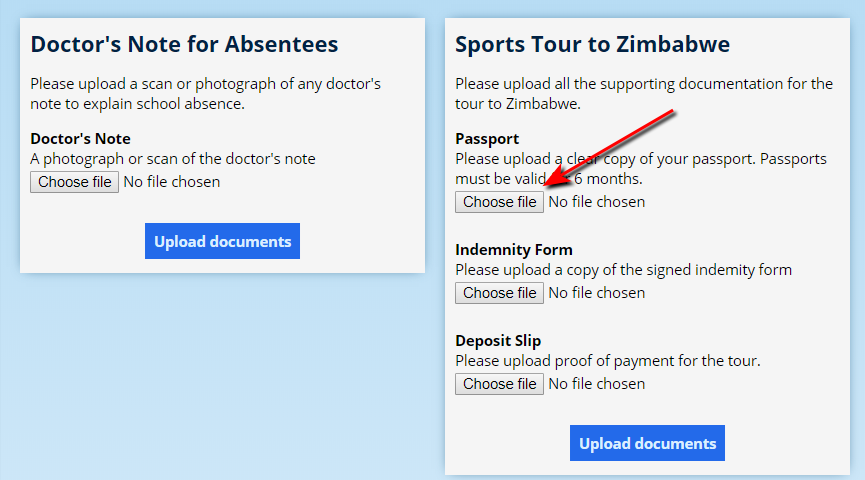
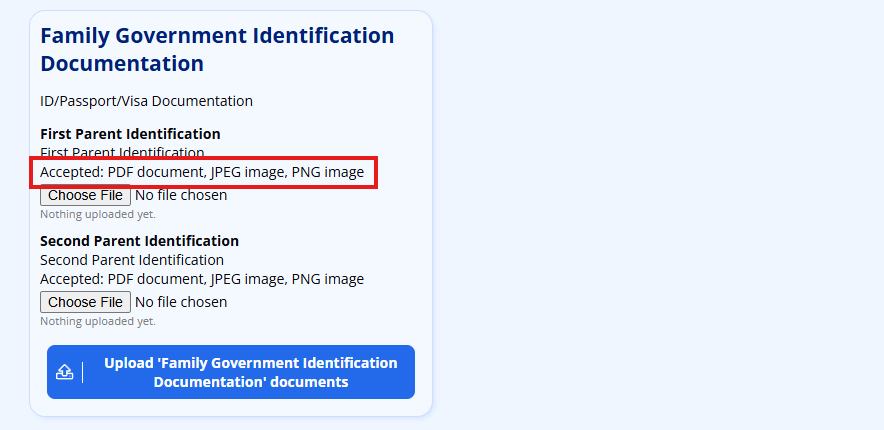
CHANGED: Document upload file-type allow-list and bulk upload results

diff --git a/docs/document-repository.md b/docs/document-repository.md
@@ -93,6 +93,8 @@ The “Max Size” column specifies how large the file may be in megabytes. The 
 
 The **Required** column lets you mark a document as required rather than optional. This only has an effect for uploads whose audience is set to **Applicant**: when those documents are [collected during the online application](online-applications.md#collecting-supporting-documents-during-the-application), a parent who has not supplied a required document is warned before submitting, although they are still allowed to submit. Required documents do not force or block an upload anywhere else.
 
+The **Accepted Types** column controls which kinds of file a parent or applicant may upload into that slot. Tick one or more of the file types on offer — **PDF document**, **JPEG image**, **PNG image**, **GIF image**, **Word document**, **Excel spreadsheet**, **CSV file** and **Plain text**. A parent is only able to upload a file whose type you have ticked here, and the accepted types are shown to them alongside the slot (see [Instructions for Parents](#instructions-for-parents) below). Each slot must have at least one type ticked. If you leave a slot with nothing ticked, ADAM will refuse to save the whole upload and ask you to choose at least one accepted file type for that slot.
+
 Once you are done, click on the **Save File Upload** button.
 
 Look carefully at the example above. Within the one file upload section, we are asking for three documents. This allows parents to see the different upload sections and easily differentiate between them. These details, with some others already existing on the system, may look like this on the parent portal:
@@ -109,7 +111,11 @@ ADAM will list the documents that can be uploaded:
 
 ![](assets/screenshots/document-repository/document-repository-09.png)
 
+Beneath each document, ADAM shows the file types that may be uploaded into that slot — for example *Accepted: PDF document, JPEG image*. These are the accepted types you ticked when [creating the upload space](#creating-upload-spaces). Where a slot has not had any file types configured, ADAM shows *Accepted: no file types configured* instead, and nothing can be uploaded until you tick at least one type.
+
 Parents should click on the **Choose file** button and select the file they wish to upload. They may choose one or more files. Once they have selected all the files they wish to upload, they should click on the **Upload documents** button below the files they have chosen.
+
+If a parent chooses a file whose type is not accepted for that slot, ADAM rejects it and shows a message naming the accepted types — for example *That file type is not accepted. Accepted types: PDF document, JPEG image.*
 
 Note that if they choose a file that is larger than the maximum size allowed, they will receive the following error message:
 
@@ -160,6 +166,14 @@ Next to each option, click on “Read”, “Add” or “Delete” to assign th
 
 Click on the “Save privileges” button at the bottom to save these changes. The privilege category table should now reflect these new privileges.
 
+### File Types Staff May Upload
+
+A site setting controls which file types staff are allowed to upload into the document repository. Navigate to **Administration → Site Administration → Edit site settings**, open the **Documents** category and find the **Document Repository Staff Allowed Filetypes** setting in the **Storage** section. It holds a comma-separated list of file extensions (by default `pdf,jpg,jpeg,png,gif,doc,docx,xls,xlsx,csv,txt`) that staff may upload.
+
+If you upload one or more documents whose type is not on this list, ADAM skips those files and shows a warning that names them and lists the accepted types, so that nothing disappears without explanation — for example *These files were not uploaded because their type is not allowed: notes.key. Accepted types: PDF document, JPEG image, …*
+
+This staff allow-list is separate from the per-slot accepted types you set for parent and applicant uploads (see [Creating Upload Spaces](#creating-upload-spaces)). The **Document Repository Banned Filetypes** setting alongside it always applies as a final backstop, regardless of what is allowed.
+
 ## Uploading Documents in Bulk
 
 Pupil and staff documents can be uploaded in bulk to the document repository.
@@ -191,9 +205,18 @@ Take special note of the limitations with regards to uploading files. These are 
 
 Once you have provided the information, please click on the **Upload Documents** button to begin the document upload process.
 
-Any documents that are not matched to a person are noted with an “X” next to their name in the confirmation screen:
+ADAM then shows a **Bulk Upload Results** page summarising what happened. A short summary line at the top counts the outcomes (for example *8 uploaded, 1 no match, 1 multiple matches.*), followed by a table with a row for each file you uploaded:
+
+-   **File** — the name of the file you uploaded.
+-   **Matched person** — the pupil or staff member the file was matched to. For pupils, the current grade is shown in brackets to help you confirm the right match. A dash (—) appears where nothing was matched.
+-   **Status** — the outcome for that file: **Uploaded**, **No match**, **Multiple matches** or **Upload failed**.
 
 ![](assets/screenshots/document-repository/document-repository-16.png)
+
+An **Upload more documents** link appears above and below the table so that you can start another upload straight away.
+
+!!! note
+    This results page can only be viewed once, immediately after the upload. If you navigate away and try to return to it, ADAM shows the message *These results are no longer available. Please upload your documents again.* — you would need to upload the documents again to see a fresh report.
 
 ### Troubleshooting Failed Matches
 